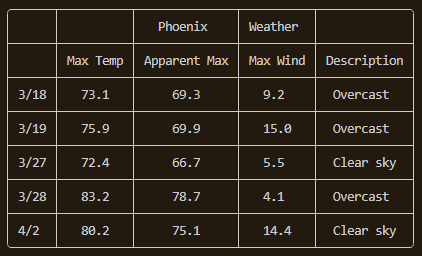
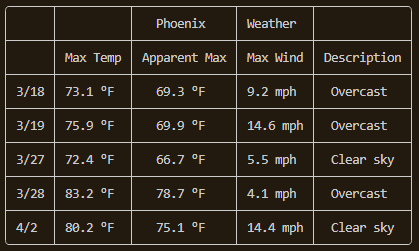
rounding weather data values in table

diff --git a/best_bike_days.py b/best_bike_days.py
@@ -126,7 +126,7 @@ def main():
             table = BeautifulTable()
             table.rows.append(['Max Temp', 'Apparent Max', 'Max Wind', 'Description'])
             for d in recommend_index:
-                table.rows.append([real_max_temp[d], apparent_max_temp[d], wind_max[d], weathercode_key[weathercode[d]]])
+                table.rows.append([str(round(real_max_temp[d])) + ' °F', str(round(apparent_max_temp[d])) + ' °F', str(round(wind_max[d])) + ' mph', weathercode_key[weathercode[d]]])
             table.columns.header = ['', city, 'Weather', '']
             table.rows.header = [''] + [day[d] for d in recommend_index]
             table.set_style(BeautifulTable.STYLE_BOX_ROUNDED)
